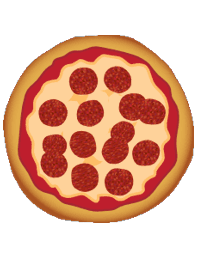
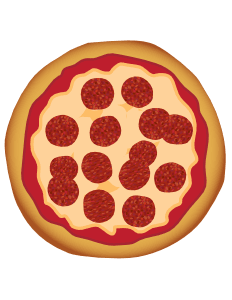
Compressed css, adde async att to js for index.html, further reduced pizzeria pic, created print css file and added media attr

diff --git a/index.html b/index.html
@@ -10,17 +10,11 @@
     <!-- Hmm, what is the impact of web fonts on speed? Measure it... -->
     <link href='https://fonts.googleapis.com/css?family=Open+Sans:400,700' rel='stylesheet' type='text/css'>
 
-    <link href="css/style.css" rel="stylesheet">
+    <link href="css/style-min.css" rel="stylesheet">
+    <link href="css/style-print.css" rel="stylesheet" media="print">
 
-    <script>
-      (function(w,g){w['GoogleAnalyticsObject']=g;
-      w[g]=w[g]||function(){(w[g].q=w[g].q||[]).push(arguments)};w[g].l=1*new Date();})(window,'ga');
-
-      // TODO: replace with your Google Analytics profile ID.
-      ga('create', 'UA-XXXX-Y');
-      ga('send', 'pageview');
-    </script>
-    <!-- <script src="http://www.google-analytics.com/analytics.js"></script> -->
+    <script async src="js/goog.js"></script>
+    <script async src="http://www.google-analytics.com/analytics.js"></script>
     <script async src="js/perfmatters.js"></script>
   </head>
 
@@ -58,7 +52,7 @@
           </li>
 
           <li>
-            <img class="thumb" src="views/images/pizzeria.png" width="100" height="62">
+            <img class="thumb" src="views/images/pizzeria.jpg" width="100" height="62">
             <a href="views/pizza.html">Cam's Pizzeria</a>
             <p>Take a trip back to 1995. This project suffered from jank. Now it runs silky smooth. Sadly, it will never win a beauty pageant.</p>
           </li>

diff --git a/browser-rendering-optimization.html b/browser-rendering-optimization.html
@@ -7,19 +7,14 @@
     <meta name="author" content="Richard Garcia">
     <title>Browser Rendering</title>
 
-    <link href="css/style.css" rel="stylesheet">
     <link href='https://fonts.googleapis.com/css?family=Open+Sans:400,700' rel='stylesheet' type='text/css'>
+    <link href="css/style.css" rel="stylesheet">
+    <link href="css/style-print.css" rel="stylesheet" media="print">
 
-    <script>
-      (function(w,g){w['GoogleAnalyticsObject']=g;
-      w[g]=w[g]||function(){(w[g].q=w[g].q||[]).push(arguments)};w[g].l=1*new Date();})(window,'ga');
-
-      // TODO: replace with your Google Analytics profile ID.
-      ga('create', 'UA-XXXX-Y');
-      ga('send', 'pageview');
-    </script>
-    <script src="http://www.google-analytics.com/analytics.js"></script>
+    <script async src="js/goog.js"></script>
+    <script async src="http://www.google-analytics.com/analytics.js"></script>
     <script async src="js/perfmatters.js"></script>
+
   </head>
 
   <body id="body">

diff --git a/object-oriented-javascript.html b/object-oriented-javascript.html
@@ -7,18 +7,12 @@
     <meta name="author" content="Richard Garcia">
     <title>Object-Oriented JavaScript</title>
 
-    <link href="css/style.css" rel="stylesheet">
     <link href='https://fonts.googleapis.com/css?family=Open+Sans:400,700' rel='stylesheet' type='text/css'>
+    <link href="css/style.css" rel="stylesheet">
+    <link href="css/style-print.css" rel="stylesheet" media="print">
 
-    <script>
-      (function(w,g){w['GoogleAnalyticsObject']=g;
-      w[g]=w[g]||function(){(w[g].q=w[g].q||[]).push(arguments)};w[g].l=1*new Date();})(window,'ga');
-
-      // TODO: replace with your Google Analytics profile ID.
-      ga('create', 'UA-XXXX-Y');
-      ga('send', 'pageview');
-    </script>
-    <script src="http://www.google-analytics.com/analytics.js"></script>
+    <script async src="js/goog.js"></script>
+    <script async src="http://www.google-analytics.com/analytics.js"></script>
     <script async src="js/perfmatters.js"></script>
   </head>
 

diff --git a/project-webperf.html b/project-webperf.html
@@ -7,18 +7,12 @@
     <meta name="author" content="Richard Garcia">
     <title>Web Performance</title>
 
-    <link href="css/style.css" rel="stylesheet">
     <link href='https://fonts.googleapis.com/css?family=Open+Sans:400,700' rel='stylesheet' type='text/css'>
+    <link href="css/style.css" rel="stylesheet">
+    <link href="css/style-print.css" rel="stylesheet" media="print">
 
-    <script>
-      (function(w,g){w['GoogleAnalyticsObject']=g;
-      w[g]=w[g]||function(){(w[g].q=w[g].q||[]).push(arguments)};w[g].l=1*new Date();})(window,'ga');
-
-      // TODO: replace with your Google Analytics profile ID.
-      ga('create', 'UA-XXXX-Y');
-      ga('send', 'pageview');
-    </script>
-    <script src="http://www.google-analytics.com/analytics.js"></script>
+    <script async src="js/goog.js"></script>
+    <script async src="http://www.google-analytics.com/analytics.js"></script>
     <script async src="js/perfmatters.js"></script>
   </head>
 

diff --git a/css/style-min.css b/css/style-min.css
@@ -1,0 +1,1 @@
+#footer,#hero{border-top:1px solid #ccc}#body{margin:0;font-size:14px;line-height:1.61;font-weight:400;font-family:'Open Sans',sans-serif;color:#333}a:visited{color:#61C}a:focus{outline:dotted thin}a:active,a:hover{color:#c00;outline:0}ul{margin:1em 0;padding:0 0 0 20px}img{border:0;max-width:100%}#container,#footer,#header{max-width:45em;margin:0 auto}#header{padding:0 .5em;color:#C90B0B}#header #profile_pic{border-radius:40px;float:left;margin:0 1em 0 0}#header #title{font-size:1.5em;font-weight:700;padding:0 5em 0 0}#headline{font-size:1em;font-weight:400;margin:-1.5em 0 2.5em}#hero{padding:2em;background-color:#f8f8f8;font-size:1.2em;border-bottom:1px solid #ccc}#main_content{padding:1em}#main_content li{list-style-type:none;font-size:1.1em}li .thumb{float:left;padding-right:1em}li p{font-size:.9em;font-style:italic}#footer{padding:0 .5em}#footer #crp-stats{float:right;font-style:italic}

diff --git a/css/style.css b/css/style.css
@@ -30,20 +30,3 @@ li p { font-size: 0.9em; font-style: italic; }
   border-top: 1px solid #ccc;
 }
 #footer #crp-stats { float: right; font-style: italic; }
-
-/* Smartphones (portrait) */
-@media only screen and (max-width: 480px) {
-  body { font-size: 12px;}
-  header p { padding-left: 4.5em;}
-}
-
-@media print {
-  * { background: transparent !important; color: black !important; text-shadow: none !important; filter:none !important; -ms-filter: none !important; }
-  a, a:visited { color: #444 !important; text-decoration: underline; }
-  a[href]:after { content: " (" attr(href) ")"; }
-  tr, img { page-break-inside: avoid; }
-  img { max-width: 100% !important; }
-  @page { margin: 0.5cm; }
-  p, h2, h3 { orphans: 3; widows: 3; }
-  h2, h3{ page-break-after: avoid; }
-}

diff --git a/css/style-print.css b/css/style-print.css
@@ -1,0 +1,16 @@
+@media print {
+  * { background: transparent !important; color: black !important; text-shadow: none !important; filter:none !important; -ms-filter: none !important; }
+  a, a:visited { color: #444 !important; text-decoration: underline; }
+  a[href]:after { content: " (" attr(href) ")"; }
+  tr, img { page-break-inside: avoid; }
+  img { max-width: 100% !important; }
+  @page { margin: 0.5cm; }
+  p, h2, h3 { orphans: 3; widows: 3; }
+  h2, h3{ page-break-after: avoid; }
+}
+
+/* Smartphones (portrait) */
+@media only screen and (max-width: 480px) {
+  body { font-size: 12px;}
+  header p { padding-left: 4.5em;}
+}

diff --git a/views/pizza.html b/views/pizza.html
@@ -1,6 +1,7 @@
 <!DOCTYPE HTML>
 <html>
 <head>
+  <meta name="viewport" content="width=device-width, initial-scale=1">
   <link rel="stylesheet" href="css/style.css">
   <link rel="stylesheet" href="css/bootstrap-grid-min.css">
   <title>Cam's Pizzeria</title>
@@ -37,7 +38,7 @@
     </div>
     <div id="callToAction" class="row">
       <div class="col-md-4">
-        <img src="images/pizzeria.png" class="img-responsive">
+        <img src="images/pizzeria.jpg" class="img-responsive">
       </div>
       <div class="col-md-8">
         <div class="row">

diff --git a/js/goog.js b/js/goog.js
@@ -1,0 +1,6 @@
+(function(w,g){w['GoogleAnalyticsObject']=g;
+      w[g]=w[g]||function(){(w[g].q=w[g].q||[]).push(arguments)};w[g].l=1*new Date();})(window,'ga');
+
+      // TODO: replace with your Google Analytics profile ID.
+      ga('create', 'UA-XXXX-Y');
+      ga('send', 'pageview');
